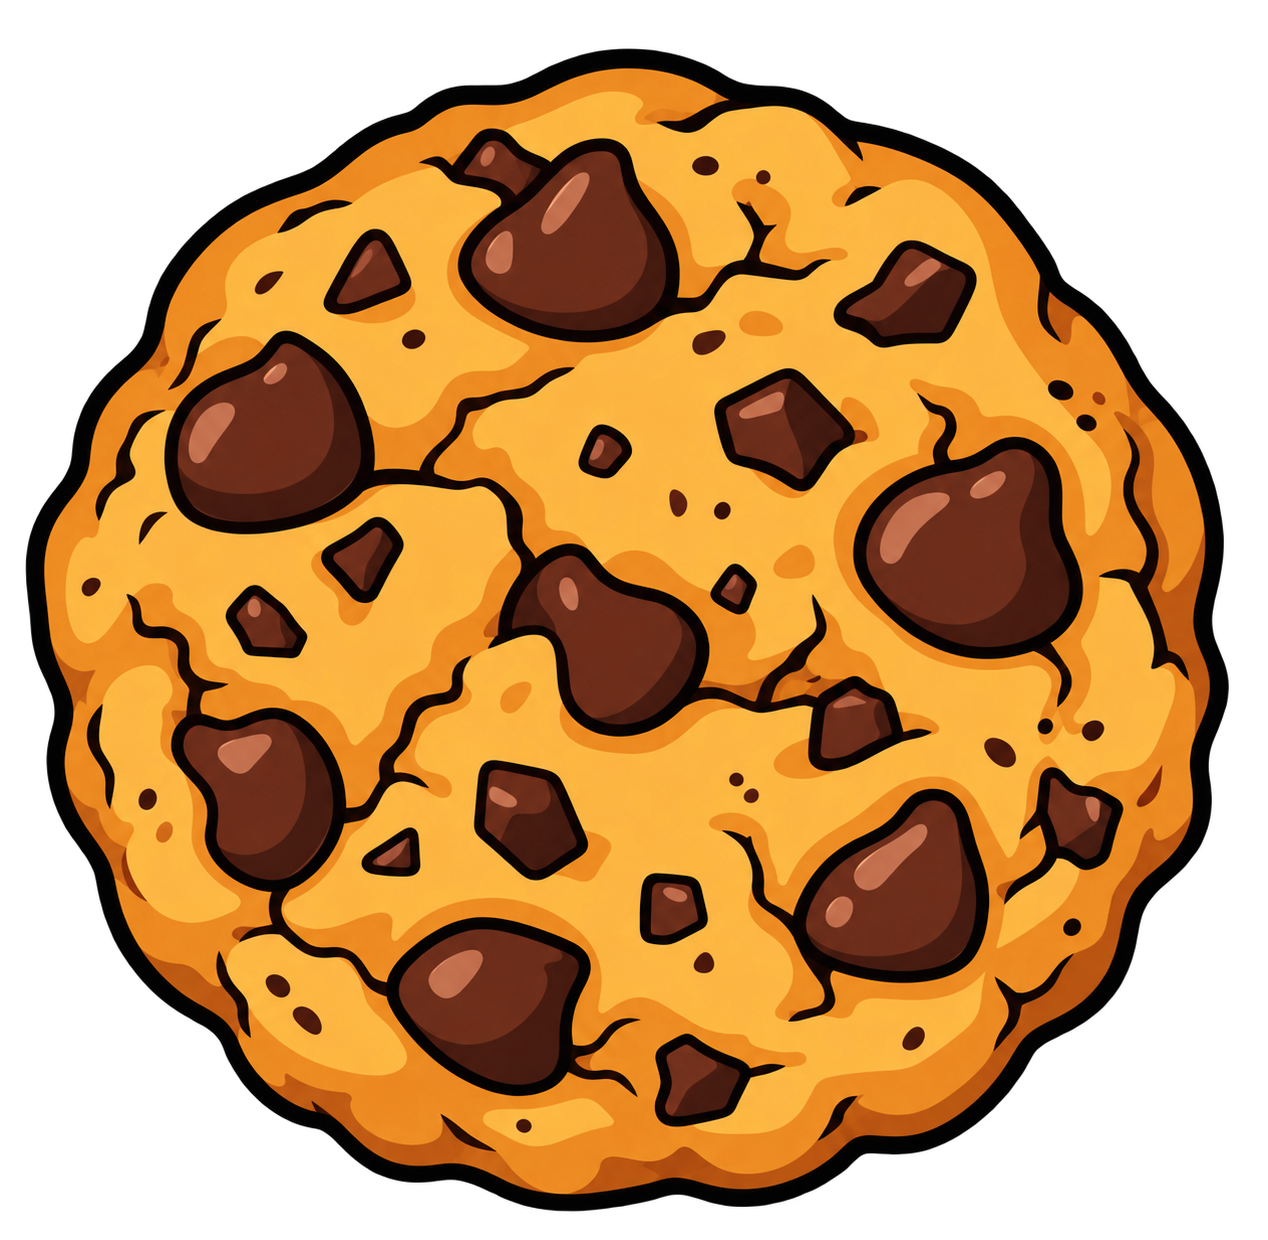
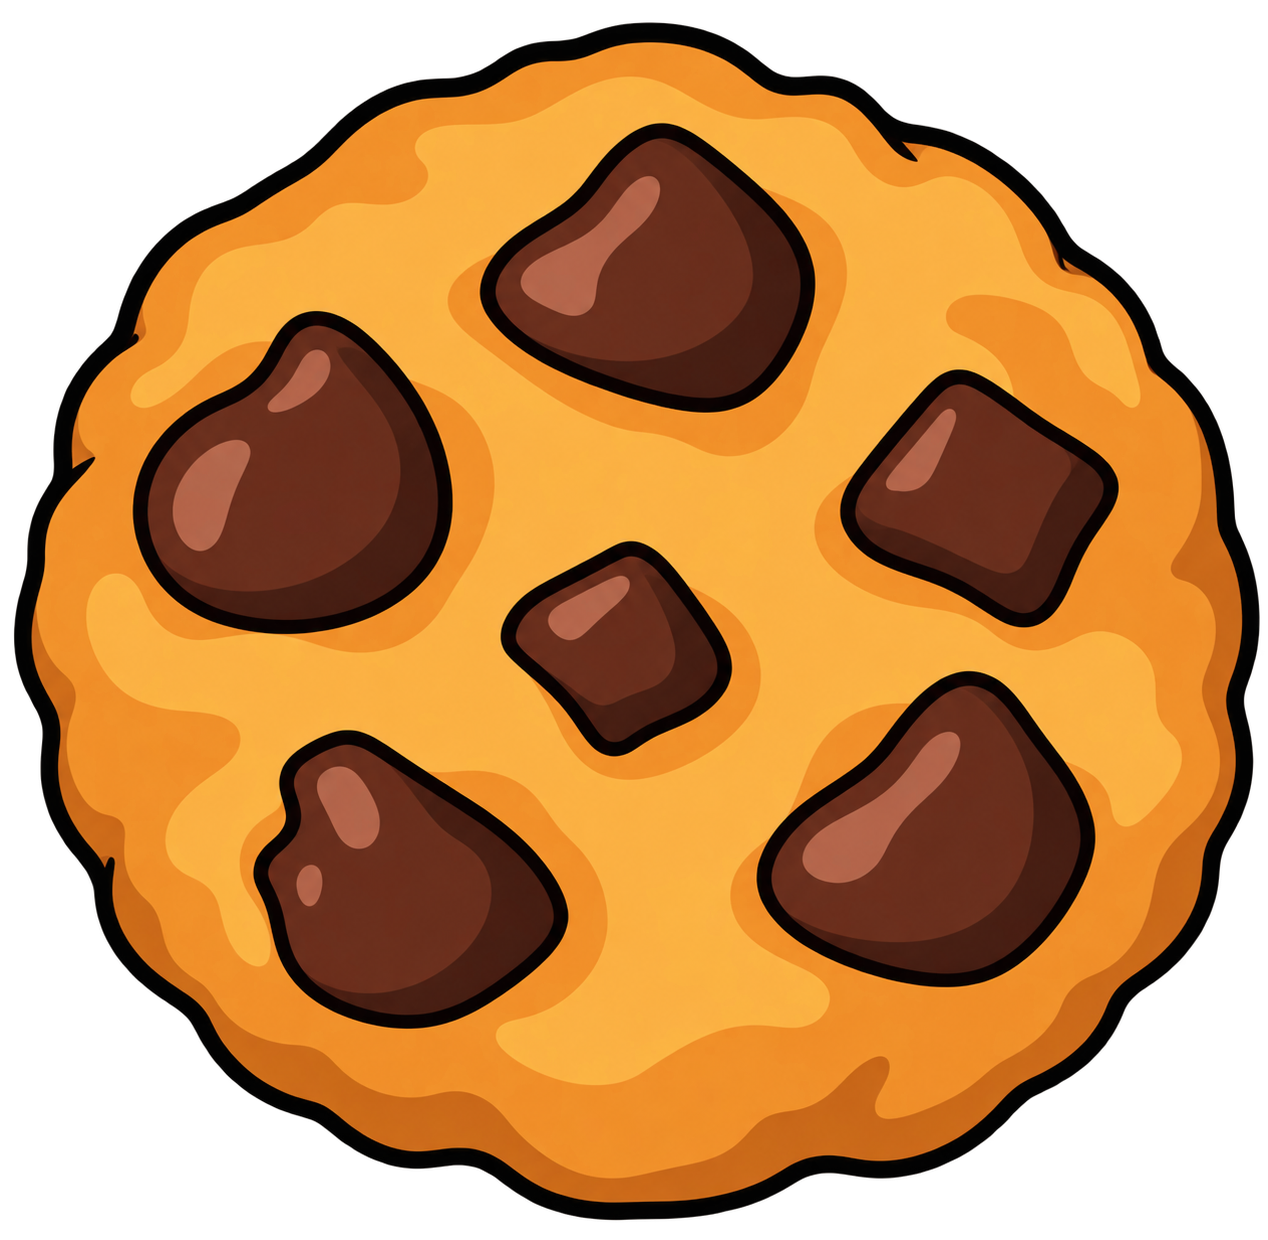
Use the simpler cookie drawing
Claude-Session: https://claude.ai/code/session_01PmHJoykLAXWcpTPQAaj2UM

diff --git a/shared/foods.js b/shared/foods.js
@@ -34,7 +34,7 @@
   "es": 1.18,
   "ey": 0.07,
   "art": {
-   "half": 19.684,
+   "half": 19.799,
    "faces": [
     0,
     0,
